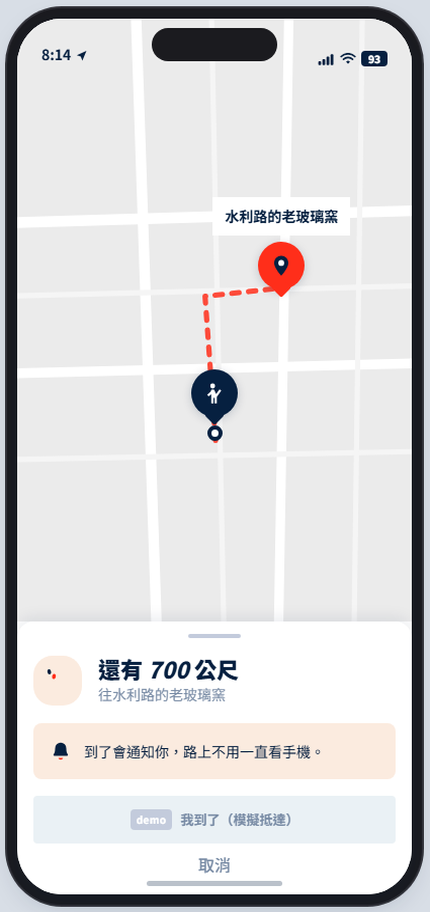
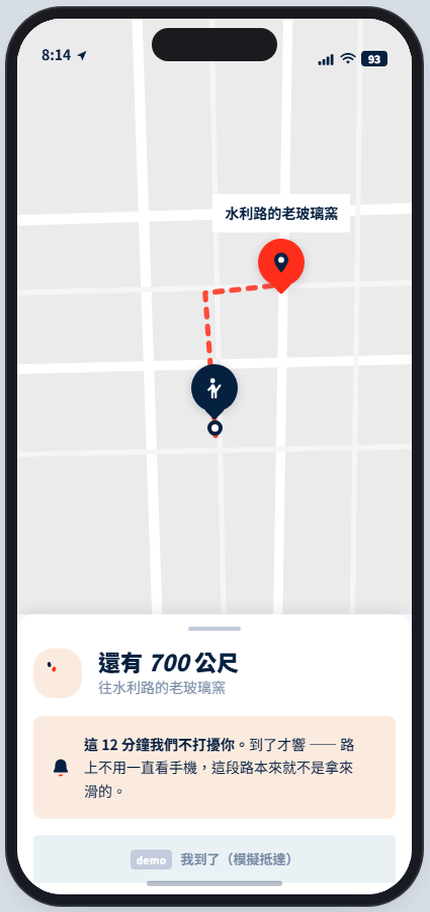
把罐頭文案換成真的內容，並補上抵達驗證的說明
評審視角的稽核指出最致命的一條：18 張明信片 + 4 個還沒去的地方 +
10 個地圖景點裡，只有 2 個有寫過的內容，其餘全部共用同一段
「這裡平常沒什麼人特別停下來」。而「AI 把在地資訊整理成有敘事的地方
內容」正是這份提案的核心 —— 評審連點三個地方就會親手驗證出它只做了
兩個樣本。

補上九個地方的三段敘事與推薦依據（現在地圖上十顆圖釘全部有自己的內容）：
護城河的舊碼頭階梯、十八尖山的防空洞、青草湖的舊戲院地基、新竹州廳、
新竹城隍廟、東門市場、新竹車站、南寮漁港、竹中站。

每一段都照同一個結構：現在看得到什麼 → 它以前是什麼 → 為什麼是今天。
推薦依據也換成該地點專屬的（常用地點／常用時段／在地活動／收集缺口／
天氣），不再是三句通用句。通用版本留著當 fallback，並在註解寫明它只是
「不要開出空白頁」用的，不是內容。

going.html 補上兩件本來只寫在 HTML 註解裡的事：
- 「這 12 分鐘我們不打擾你，到了才響」—— 反黏著是刻意的設計，不是沒做完
- 抵達以現場定位確認，半徑 80 公尺內停留 1 分鐘才算數 —— 「你怎麼知道
  他真的到了」是這個產品的核心機制，評審一定會問

diff --git a/prototype/js/mock.js b/prototype/js/mock.js
@@ -367,8 +367,157 @@ function cardIdOf(placeId) {
 }
 
 
+
+/* --------------------------------------------------------------------------
+   寫好內容的地方
+
+   findPlace() 找不到這裡的 id 時會退回 expand() 的通用版本。通用版本是
+   「這裡平常沒什麼人特別停下來」那一段罐頭文案 —— 它存在是為了讓任何 id
+   都不會開出空白頁，不是拿來當內容用的。
+
+   評審會連點三、四個地方。只有兩個地方寫得出「窯口還留著熔融過的痕跡，
+   像一塊沒擦乾淨的糖」，其餘全是同一段，那就等於當場證明了「AI 生成敘事」
+   只做了兩個樣本。所以主線上點得到的地方都要有自己的三段。
+   -------------------------------------------------------------------------- */
+const WRITTEN = {
+  moat: {
+    tip: '走到水面那一側再回頭看，階梯的磨損是往河的方向的。',
+    hours: '開放空間，白天光線最好',
+    story: [
+      { label: '現在的它', text: '護城河邊有一段比別處低的石階，最下面兩階常年在水裡。欄杆是後來加的，石頭不是。' },
+      { label: '以前的它', text: '這裡曾經是竹塹城的卸貨口。米、鹽、布從船上搬上來，再走進東門。城牆拆了以後碼頭沒人再用，階梯就留在原地。' },
+      { label: '為什麼是今天', text: '這個月護城河在清淤，水位比平常低，平常泡在水裡的那兩階這幾天看得到。' },
+    ],
+    why: [
+      { src: '常用地點', text: '你每週經過東門圓環三次，但從沒走下堤岸' },
+      { src: '在地活動', text: '護城河清淤到月底，水位比平常低' },
+      { src: '常用時段', text: '你通常五點後才出門，那個時間側光最能看出石階的磨損' },
+    ],
+  },
+  hill: {
+    tip: '洞口很窄，站在外面看就好。裡面沒有照明。',
+    hours: '山徑白天開放，入口在博愛街這一側',
+    story: [
+      { label: '現在的它', text: '十八尖山的登山道旁有一個被草蓋住的混凝土洞口，寬度剛好一個人側身。旁邊立了一塊字已經看不清楚的牌子。' },
+      { label: '以前的它', text: '1943 年新竹是被轟炸最多次的台灣城市之一，因為有機場和煉油設施。這座山上挖了十幾個防空洞，這是還看得到入口的其中一個。' },
+      { label: '為什麼是今天', text: '三月到十月草長得比人高，入口會完全被蓋住。現在還找得到。' },
+    ],
+    why: [
+      { src: '常用地點', text: '你這個月走過十八尖山兩次，都是沿著主步道' },
+      { src: '收集缺口', text: '你的圖鑑裡還沒有戰爭遺構這一類' },
+      { src: '天氣',     text: '今天午後乾燥，山徑不會滑' },
+    ],
+  },
+  lake: {
+    tip: '地基在湖的南岸，從環湖步道第二個彎切進去。',
+    hours: '戶外空間，全天可看',
+    story: [
+      { label: '現在的它', text: '青草湖南岸的樹林裡有一整片方形的水泥基座，上面長滿了苔。間距很規律，一看就知道原本站著柱子。' },
+      { label: '以前的它', text: '1960 年代青草湖是台灣最紅的蜜月景點，湖邊有旅社、有遊艇、也有一間露天電影院。水庫淤積之後人就不來了，戲院拆掉只剩地基。' },
+      { label: '為什麼是今天', text: '週末湖邊有市集，順路可以繞過去。' },
+    ],
+    why: [
+      { src: '在地活動', text: '這個週末青草湖有手作市集，從你家出發的公車直達' },
+      { src: '收集缺口', text: '你的水路獎章還差一張' },
+      { src: '常用時段', text: '你週末下午通常在外面' },
+    ],
+  },
+  temple: {
+    tip: '抬頭看樑上那幾塊被香燻黑的匾，年份都不一樣。',
+    hours: '每日 06:00–22:00',
+    story: [
+      { label: '現在的它', text: '城隍廟的屋頂比周圍的房子高出一截，從三民路那個路口就看得到。廟埕永遠有人在吃東西。' },
+      { label: '以前的它', text: '1748 年建的。清代全台只有這一座被封為「都城隍」，位階最高，所以新竹人習慣說「北門街的城隍」而不是「新竹的城隍」。' },
+      { label: '為什麼是今天', text: '今天不是初一十五，廟埕人少，看得到地上的石板。' },
+    ],
+    why: [
+      { src: '常用地點', text: '你這個月來過這附近四次，都是為了吃東西' },
+      { src: '常用時段', text: '你中午前後常在北門街一帶' },
+      { src: '收集缺口', text: '你的舊城區獎章還差一張' },
+    ],
+  },
+  market: {
+    tip: '從二樓的樓梯間往下看，攤位的排法是照 1977 年的圖。',
+    hours: '一樓 06:00–14:00，二樓全天可上',
+    story: [
+      { label: '現在的它', text: '東門市場外面看起來是一棟舊大樓，但二樓以上這幾年開了十幾家小店，晚上比白天亮。' },
+      { label: '以前的它', text: '1977 年落成時是全台第一座有電扶梯的公有市場，三層樓、四百多個攤位。後來人潮移走，二三樓空了將近三十年。' },
+      { label: '為什麼是今天', text: '週三晚上二樓的店幾乎都開，週一週二很多休息。' },
+    ],
+    why: [
+      { src: '常用時段', text: '你晚上七點後常在外面，那是二樓最熱鬧的時間' },
+      { src: '常用地點', text: '你搭車經過東門街很多次，但沒有在這裡下過車' },
+      { src: '在地活動', text: '這個月二樓有一檔老照片展' },
+    ],
+  },
+  station: {
+    tip: '站在前站廣場正對面看山牆，那個弧線是巴洛克式的。',
+    hours: '車站大廳全天開放',
+    story: [
+      { label: '現在的它', text: '新竹車站的正面是石頭和洗石子做的，屋頂有一個陡斜的老虎窗。它不像一座還在用的車站。' },
+      { label: '以前的它', text: '1913 年落成，設計者是松崎萬長 —— 一個在德國唸過建築的日本貴族。這是台灣還在營運的車站裡最老的一座，比東京車站還早一年。' },
+      { label: '為什麼是今天', text: '傍晚站前的燈亮起來時，山牆的陰影最深。' },
+    ],
+    why: [
+      { src: '常用地點', text: '你每個月經過這裡很多次，但從來沒有從正面看過它' },
+      { src: '收集缺口', text: '你的老車站獎章從這裡開始' },
+      { src: '天氣',     text: '今天傍晚晴，適合看立面' },
+    ],
+  },
+  harbour: {
+    tip: '堤防上有一整排消波塊，站上去可以看到風車。',
+    hours: '戶外空間，傍晚風大',
+    story: [
+      { label: '現在的它', text: '南寮的舊港區現在停的多半是小型漁筏，倉庫改成了店面。堤防外面就是台灣海峽。' },
+      { label: '以前的它', text: '這裡曾經是竹塹最重要的出海口，清代的米和樟腦從這裡出去。日治時期港口淤積，重心移到基隆與高雄，南寮就慢慢變回一個漁村。' },
+      { label: '為什麼是今天', text: '今天東北季風不強，堤防上站得住人。' },
+    ],
+    why: [
+      { src: '天氣',     text: '今天風速比這個季節的平均低，海邊不會太難受' },
+      { src: '收集缺口', text: '你的水路獎章還差一張' },
+      { src: '常用時段', text: '你傍晚常出門，那是這裡光線最好的時候' },
+    ],
+  },
+  rail: {
+    tip: '月台盡頭的號誌樓還在，門鎖著但窗戶看得進去。',
+    hours: '車站全天開放',
+    story: [
+      { label: '現在的它', text: '竹中站只有一個島式月台，兩邊的軌道往不同方向去。等車的人不多，多半是學生。' },
+      { label: '以前的它', text: '內灣線與六家線在這裡分家。六家線是 2011 年為了接高鐵才通車的，內灣線則是 1951 年為了把尖石的木材與水泥原料運下山蓋的。同一個月台，兩個相差六十年的理由。' },
+      { label: '為什麼是今天', text: '平日下午班次疏，月台上通常只有你一個人。' },
+    ],
+    why: [
+      { src: '常用地點', text: '你搭車經過竹中很多次，但沒有在這一站下過車' },
+      { src: '收集缺口', text: '你的內灣線全線獎章從這裡往下走' },
+      { src: '常用時段', text: '你下午的空檔剛好對上班次最疏的時段' },
+    ],
+  },
+  brick: {
+    tip: '正面的磚縫看得出兩個年代的差別，下半截比較舊。',
+    hours: '外觀全天可看，內部週二至週日開放',
+    story: [
+      { label: '現在的它', text: '中正路底那棟紅磚建築的正立面上，磚的顏色分成上下兩截。下面偏深，上面偏橘。' },
+      { label: '以前的它', text: '1925 年落成的新竹州廳，戰後接著當市政府用到現在，是全台少數沒有斷過使用的日治官署。二戰時被炸過一次，上半截是後來補的，用的是另一批磚。' },
+      { label: '為什麼是今天', text: '下午三點以後光線從西邊斜進來，兩種磚色的分界最明顯。' },
+    ],
+    why: [
+      { src: '常用地點', text: '你幾乎每天經過中正路，但從沒抬頭看過這一面牆' },
+      { src: '常用時段', text: '你下午三點前後常在附近，那正是看得出磚色分界的時間' },
+      { src: '收集缺口', text: '你的圖鑑裡還沒有官署建築這一類' },
+    ],
+  },
+};
+
 /* 把精簡的地點資料補成 place.html 需要的完整形狀 */
 function expand(p) {
+  /* 有寫好的內容就用寫好的，沒有才落到通用版本 */
+  const w = WRITTEN[p.id] || {};
+  p = Object.assign({}, w, p, {
+    tip: p.tip || w.tip,
+    hours: p.hours || w.hours,
+    story: p.story || w.story,
+    why: p.why || w.why,
+  });
   return {
     id: p.id,
     name: p.name,

diff --git a/prototype/screens/going.html b/prototype/screens/going.html
@@ -79,10 +79,24 @@
           </span>
         </div>
 
+        <!-- 這兩張卡把原本只寫在 HTML 註解裡的兩件事放到畫面上。
+             評審一定會走到這一頁，而且一定會問「你怎麼知道他真的到了」與
+             「這 12 分鐘 app 在做什麼」。答案本來就有，只是沒有露出來。 -->
         <div class="card card--pad u-row u-gap3" style="background:var(--yoxi-cream); border:0">
           <span data-icon="bell" style="width:22px;height:22px;flex:none"></span>
           <span style="font-size:14px; line-height:1.6">
-            到了會通知你，路上不用一直看手機。
+            <b>這 12 分鐘我們不打擾你。</b>到了才響 ——
+            路上不用一直看手機，這段路本來就不是拿來滑的。
+          </span>
+        </div>
+
+        <div class="card card--pad u-row u-gap3" data-expand-only
+             style="margin-top:8px; border:0; background:var(--yoxi-mist)">
+          <span data-icon="place" style="width:22px;height:22px;flex:none"></span>
+          <span style="font-size:13px; line-height:1.6; color:var(--yoxi-slate)">
+            抵達以現場定位確認，半徑 <span class="num">80</span> 公尺內停留
+            <span class="num">1</span> 分鐘才算數。明信片是走到現場才拿得到的東西，
+            所以這一關不能只靠按鈕。
           </span>
         </div>
 
